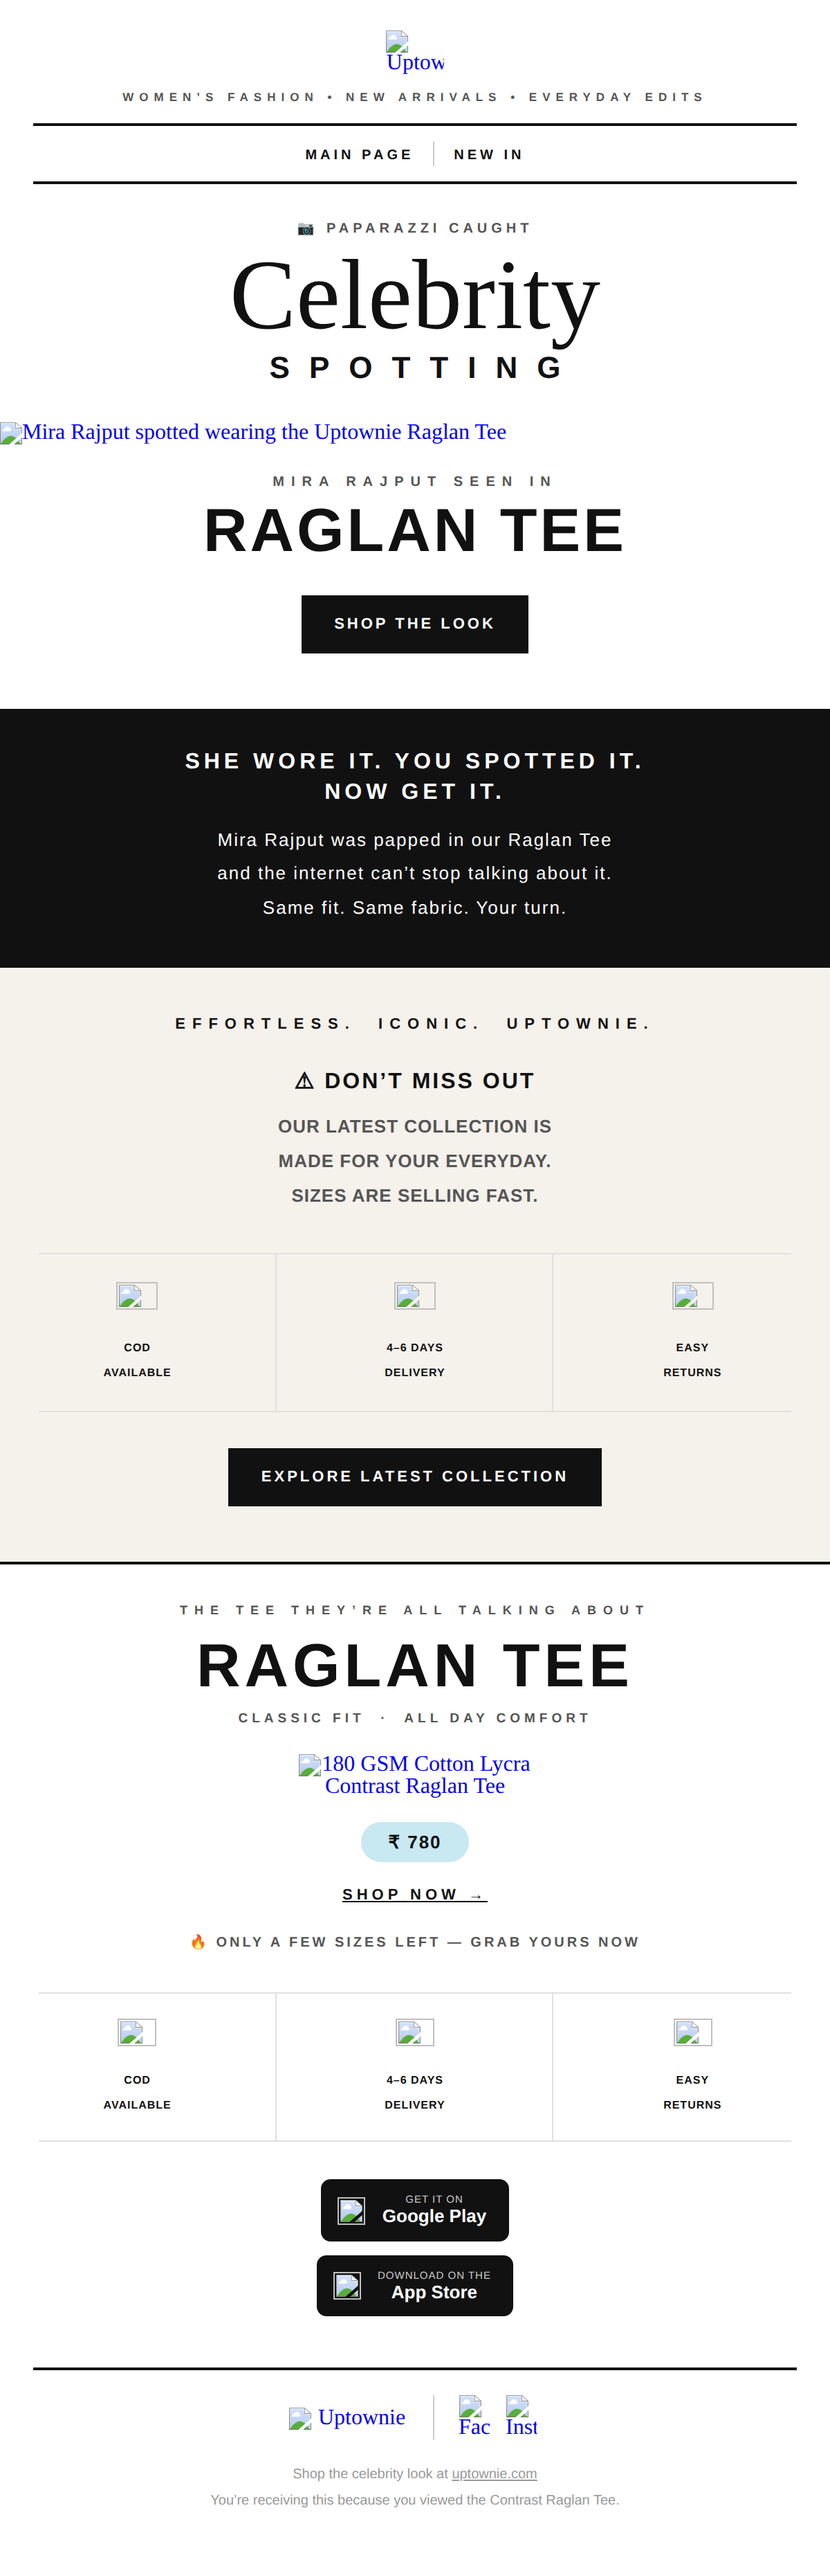
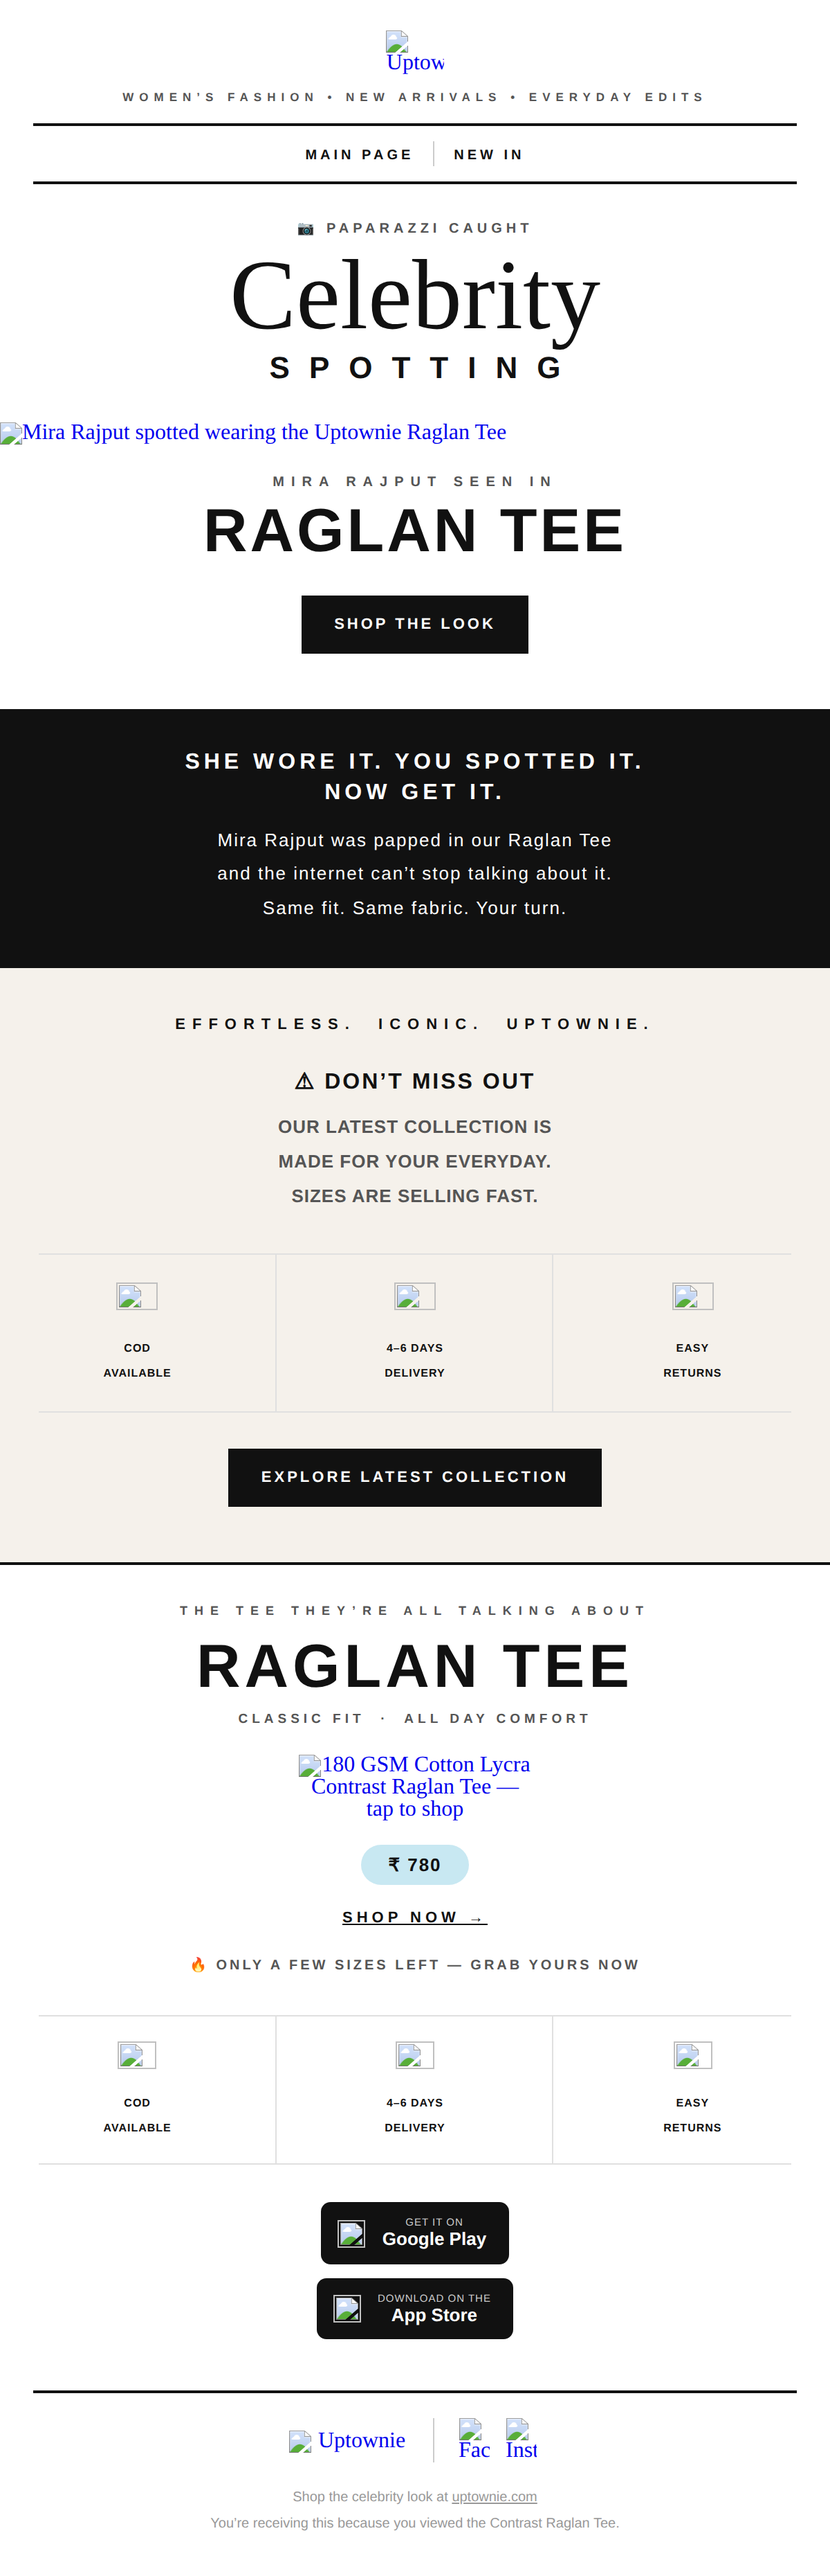
Fix product section: use correct Contrast Raglan Tee image + link
Was using image from the plain raglan tee product (12_706edc6e).
Now uses the featured image from the correct product:
  gid://shopify/Product/9632213762277
  handle: 180-gsm-cotton-lycra-contrast-raglan-tee-1
  image: new_launched_REVAMP-_defaults.png

Product image click → https://uptownie.com/products/180-gsm-cotton-lycra-contrast-raglan-tee-1

https://claude.ai/code/session_01AWc4awJsuvDjrkFD7k2Dft

diff --git a/raglan-tee-email.html b/raglan-tee-email.html
@@ -345,14 +345,14 @@
       </td>
     </tr>
 
-    <!-- Product image — centred, contained (not full bleed) -->
+    <!-- Product image — correct contrast raglan tee, centred, clickable -->
     <tr>
       <td class="em-white" style="background-color:#ffffff;padding:20px 0 0;text-align:center;">
         <a href="https://uptownie.com/products/180-gsm-cotton-lycra-contrast-raglan-tee-1" target="_blank" style="display:inline-block;line-height:0;">
-          <img src="https://cdn.shopify.com/s/files/1/1780/3381/files/12_706edc6e-3aec-466d-96d3-98b8438cb7df.png?v=1781069774"
-               width="320" alt="180 GSM Cotton Lycra Contrast Raglan Tee"
+          <img src="https://cdn.shopify.com/s/files/1/1780/3381/files/new_launched_REVAMP-_defaults.png?v=1781069777"
+               width="340" alt="180 GSM Cotton Lycra Contrast Raglan Tee — tap to shop"
                class="prod-img"
-               style="display:inline-block;width:320px;max-width:80%;height:auto;">
+               style="display:inline-block;width:340px;max-width:86%;height:auto;">
         </a>
       </td>
     </tr>
